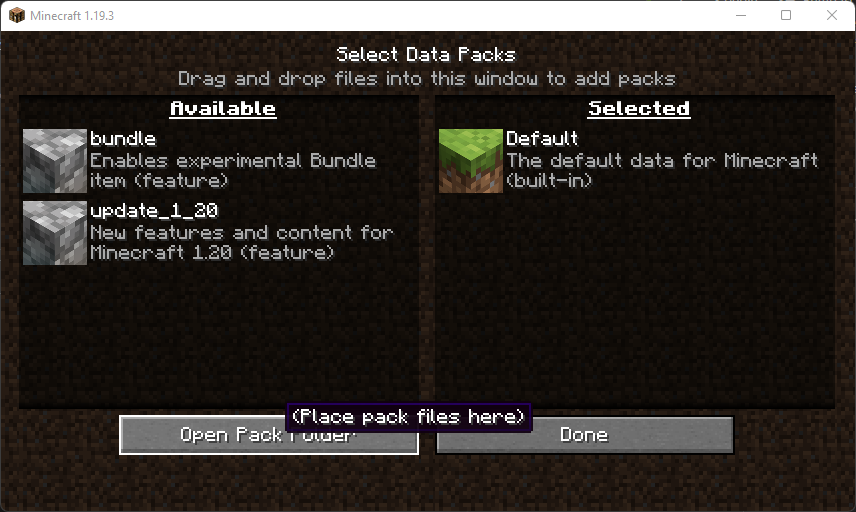
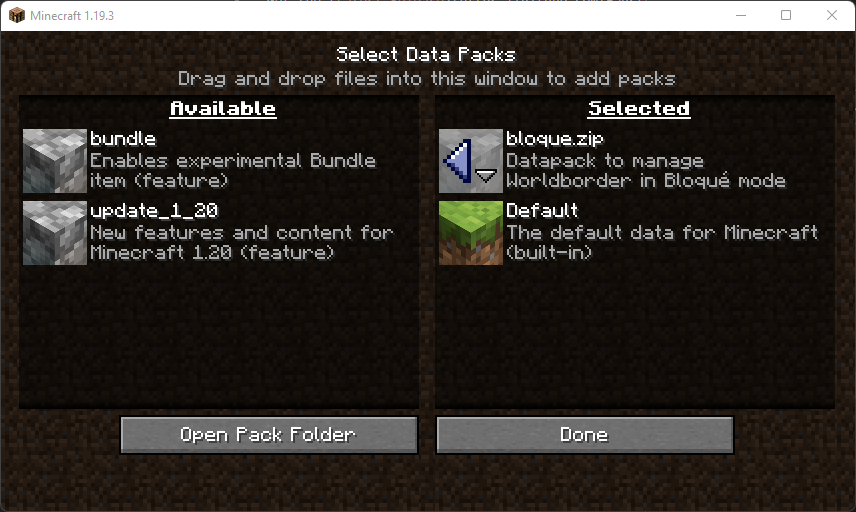
Updated the `Installation` instruction

Changed region(s): [[0.486, 0.25, 0.972, 0.5312], [0.3341, 0.7812, 0.6379, 0.875], [0.1519, 0.875, 0.486, 0.9062]]

diff --git a/Readme.md b/Readme.md
@@ -4,10 +4,13 @@
 
 Get the [Latest Release](https://github.com/FaustVX/Bloque_WB/releases/latest)
 - ### In an existing world
-Download `Bloqué.zip` and put it in your `.minecraft/saves/<Your Save>/datapacks`
+Download `bloqué.zip` and put it in your `.minecraft/saves/<Your Save>/datapacks`
 
 - ### In a new world
-CLick `Datapack` in the `New World` menu, then drag&drop `Bloqué.zip` inside the `Select Data Packs` menu
+    - Click `Datapack` in the `New World` menu
+    - Drag&drop `Bloqué.zip` inside the `Select Data Packs` menu
+    - Activate the `bloqué.zip` pack
+
 ![New World menu](img/datapack.png)
 
 ## Usage
